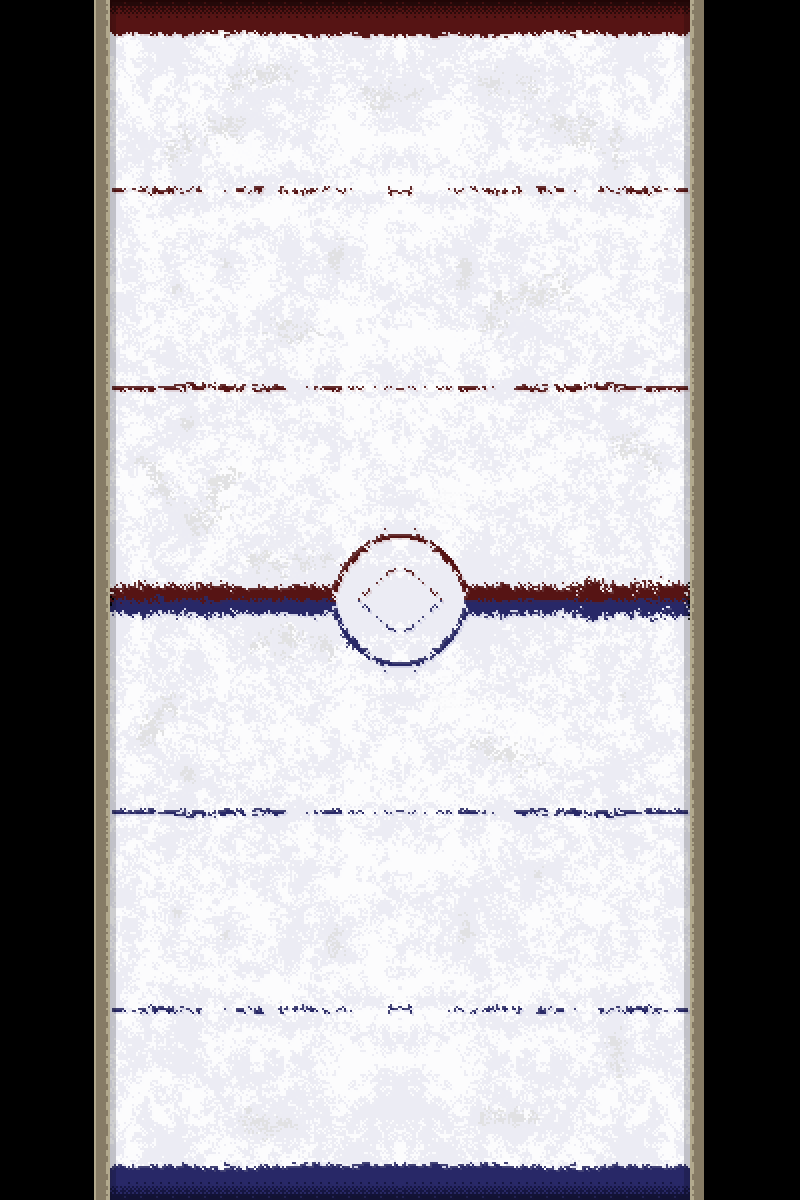
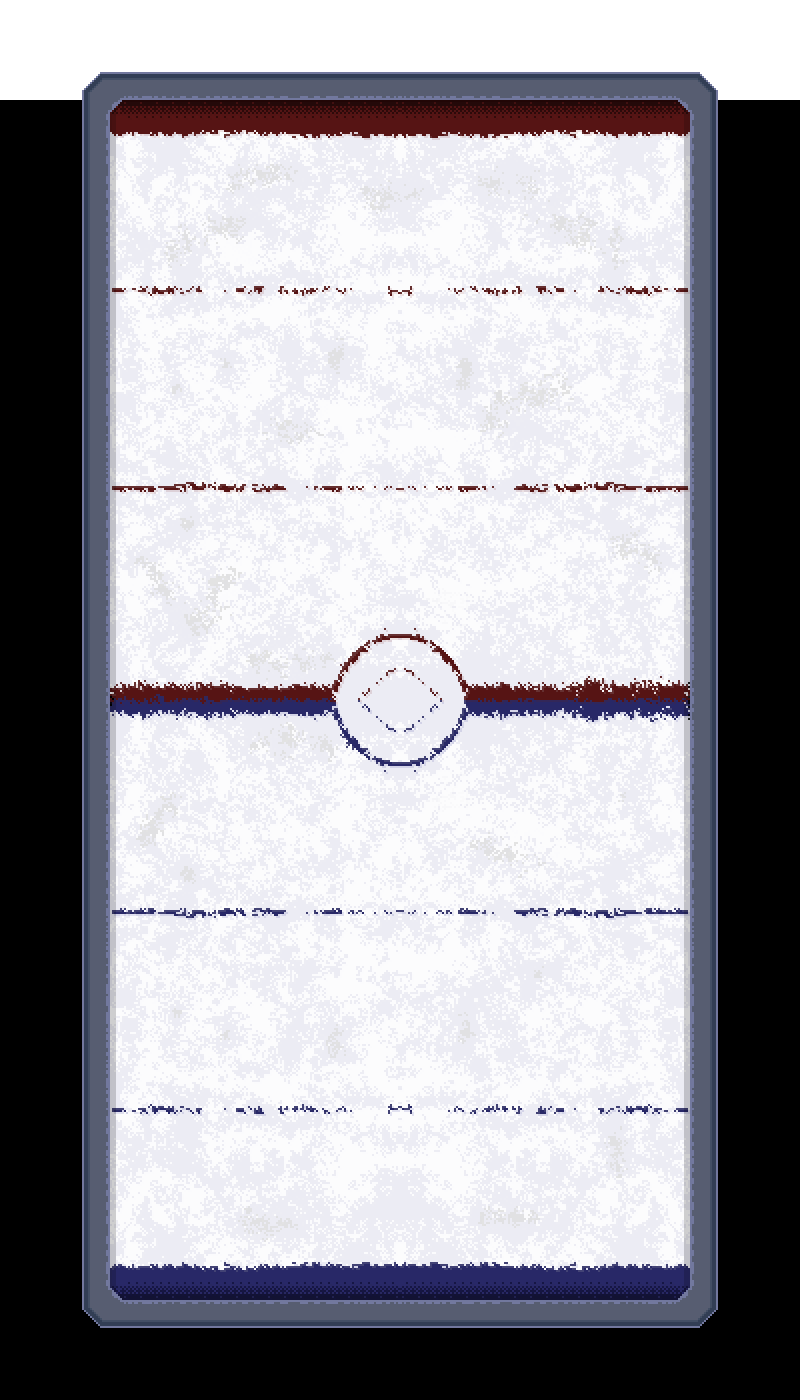
bugfixes and art

diff --git a/src/controllers/play.js b/src/controllers/play.js
@@ -1,8 +1,8 @@
 let ID = 0;
 
 const BOUNDS = [
-	[	[101, 0], [100, 1200] ],
-	[	[701, 0], [700, 1200] ]
+	[	[101, 0], [100, 1600] ],
+	[	[701, -0], [700, 1600] ]
 ];
 
 function castLineOnField(sx, sy, fx, fy) {
@@ -379,7 +379,7 @@ class ControlledHockeyTeam extends HockeyTeam {
 			this.ui.selectingLine.lineStyle(10, 0xFF0000, 0.2);
 			this.ui.selectingLine.moveTo(points[0].x, points[0].y);
 			this.ui.selectingLine.lineTo(points[1].x, points[1].y);
-			this.ui.selectingLne.endFill();
+			this.ui.selectingLine.endFill();
 		}
 	}
 }
@@ -400,12 +400,12 @@ class Movable {
 
 		const ease1 = points.length > 1 ? Phaser.Easing.Quadratic.In :Phaser.Easing.Quadratic.InOut;
 
-		this.activeTween = game.phaser.add.tween(this.sprite.position).to(points[0], points[0].t*C.TURN_SPEED, ease1, true);
+		this.activeTween = game.phaser.add.tween(this.sprite.position).to(points[0], points[0].t*duration, ease1, true);
 		if (points.length > 1) {
 			this.activeTween.onComplete.add(() => {
 				this.lookAt(points[1]);
 				if (this.movementCancelled) return;
-				this.activeTween = game.phaser.add.tween(this.sprite.position).to(points[1], points[1].t*C.TURN_SPEED, Phaser.Easing.Quadratic.Out, true);
+				this.activeTween = game.phaser.add.tween(this.sprite.position).to(points[1], points[1].t*duration, Phaser.Easing.Quadratic.Out, true);
 			});
 		}
 	}
@@ -477,8 +477,8 @@ class HockeyPlayer extends Movable {
 class PlayController {
 	constructor(params) {
 		this.destroyables = [];
-		this.destroyables.push(game.phaser.add.sprite(0, 0, "rink"));
-		game.phaser.world.setBounds(0, 0, 800, 1200);
+		this.destroyables.push(game.phaser.add.sprite(-100, 0, "rink"));
+		game.phaser.world.setBounds(-100, 0, 1000, 1400);
 		game.phaser.camera.y = 600;
 
 		this.hockeyGame = new HockeyGame();
@@ -495,7 +495,9 @@ class PlayController {
 	update() {
 		this.hockeyGame.update();
 		if (game.input.up()) game.phaser.camera.y -= 14;
-		else if (game.input.down()) game.phaser.camera.y += 10;
+		if (game.input.down()) game.phaser.camera.y += 10;
+		if (game.input.left()) game.phaser.camera.x -= 10;
+		if (game.input.right()) game.phaser.camera.x += 10;
 	}
 
 	render() {

diff --git a/src/game.js b/src/game.js
@@ -19,7 +19,10 @@ class Game {
 		this.input = new Input();
 		this.utils = new Utils();
 		this.audio = new GameAudio();
+
 		this.phaser = new Phaser.Game(800, 600, Phaser.AUTO, "game-host", this.setup, false, false);
+
+		document.getElementById("fs").addEventListener("click", () => this.fullscreen());
 	}
 
 	switchState(state, stateParams) {

diff --git a/src/constants.js b/src/constants.js
@@ -2,11 +2,11 @@ const DEBUG = false;
 
 const C = {		
 	TURN_SPEED: 1200,
-	FIGHT_SPEED: 1200,
-	FIGHT_KNOCKBACK: 100,
+	FIGHT_SPEED: 750,
+	FIGHT_KNOCKBACK: 150,
 	MAX_MOVEMENT: 225,
 	MAX_SHOT_RANGE: 300,
-	FIGHT_MIN_KNOCKBACK: 60,
+	FIGHT_MIN_KNOCKBACK: 160,
 	PLAYER_COLLISION_RADIUS: 22,
 	PUCK_COLLISION_RADIUS: 18
 };

diff --git a/src/loader.js b/src/loader.js
@@ -6,6 +6,7 @@ class Loader {
 		g.load.image("blue-player", "assets/blue-player.png");
 		g.load.image("puck", "assets/puck.png");
 		g.load.image("submit-btn", "assets/submit-btn.png");
+		g.load.image("ui", "assets/ui.png");
 	}
 }
 

diff --git a/index.html b/index.html
@@ -13,6 +13,7 @@ body, html { margin: 0; padding: 0; }
 	</head>
 	<body>
 		<div id="game-host"></div>
+		<button id="fs">fullscreen</button>
 
 		<!-- Vendor -->
 		<script src="./vendor/phaser.js"></script>
